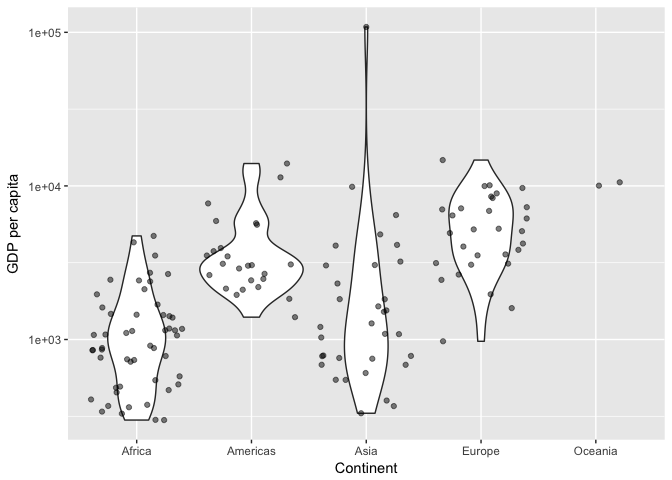
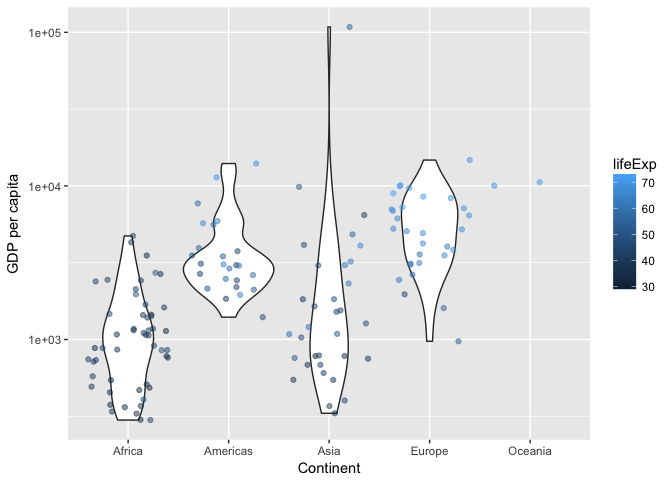
add final changes

diff --git a/hw02-gapminder_exploration.md b/hw02-gapminder_exploration.md
@@ -1,7 +1,7 @@
 hw02-gapminder exploration
 ================
 Frederike Basedow
-22 September 2018
+25 September 2018
 
 ### Load the data and packages
 
@@ -44,13 +44,7 @@ str(gapminder)
     ##  $ pop      : int  8425333 9240934 10267083 11537966 13079460 14880372 12881816 13867957 16317921 22227415 ...
     ##  $ gdpPercap: num  779 821 853 836 740 ...
 
-``` r
-typeof(gapminder)
-```
-
-    ## [1] "list"
-
-Gapminder is a list that contains 3 different classes: table-data frame, table and data frame.
+Gapminder is a tibble, which is a special type of data frame.
 
 **2. What is its class?**
 
@@ -60,10 +54,12 @@ class(gapminder)
 
     ## [1] "tbl_df"     "tbl"        "data.frame"
 
+The classes included in gapminder are `tbl_df`, `tbl`, and `data.frame`.
+
 **3. How many variables/columns?**
 
 ``` r
-n_var <- ncol(gapminder)
+n_var <- ncol(gapminder) #store number of columns in new variable n_var
 n_var
 ```
 
@@ -74,7 +70,7 @@ Gapminder has 6 variables.
 **4. How many rows/observations?**
 
 ``` r
-n_obs <- nrow(gapminder)
+n_obs <- nrow(gapminder) # store number of rows in new variable n_obs
 n_obs
 ```
 
@@ -92,13 +88,15 @@ dim(gapminder)
 
     ## [1] 1704    6
 
-Furthermore, the output of the `str()` function also includes the dimensions of the object in its first line. `str()` is useful if you just want to get an overview of what the dimension are but not do anything with them. `dim()`, `nrow()` and `ncol()` are useful if you want to use the output numbers for future calculations. For example, you might want to use the total number of observations to calculate the mean. Here is an example for calculating the mean gdpPercap, making use of `n_obs` as specified above:
+Furthermore, the output of the `str()` function or just typing in the object's name also includes the dimensions of the object in its first line. `str()` is useful if you just want to get an overview of what the dimension are but not do anything with them. `dim()`, `nrow()` and `ncol()` are useful if you want to use the output numbers for future calculations. For example, you might want to use the total number of observations to calculate the mean. Here is an example for calculating the mean gdpPercap, making use of `n_obs` as specified above:
 
 ``` r
 sum(gapminder$gdpPercap)/n_obs
 ```
 
     ## [1] 7215.327
+
+`dim()` is a faster function than `ncol()` and `nrow()`, because the latter two functions actually use the `dim()` function. So it may be better to use dim() in loops that involve a lot of computing.
 
 **6. What data type is each variable?**
 
@@ -115,11 +113,9 @@ The first row shows the variable and the second row the respective type of each 
 
 *Pick at least one categorical variable and at least one quantitative variable to explore.*
 
-I will explore `country` and `year` as categorical variables and `lifeExp` and \`gdpPercap as quanititative variables.
+I will explore `country` and `year` as categorical variables and `lifeExp` and `gdpPercap` as quantitative variables.
 
 **1. What are possible values (or range, whichever is appropriate) of each variable?**
-
-I will safe the output of each of these calculations in case I will need them later.
 
 ``` r
 # get the lowest and highest value of lifeExp
@@ -226,27 +222,29 @@ all_ys
 
 ``` r
 # get the lowest and highest value of gdpPercap
-r_gdp <- range(gapminder$gdpPercap) 
+r_gdp <- round(range(gapminder$gdpPercap),2) 
 r_gdp
 ```
 
-    ## [1]    241.1659 113523.1329
+    ## [1]    241.17 113523.13
+
+The `lifeExp` variable ranges from 23.599 to 82.603, there are 142 countries included in the data set and the `gdpPercap` variable ranges from 241.17 to 1.135231310^{5}.
 
 **2. What values are typical? What’s the spread? What’s the distribution? Etc., tailored to the variable at hand.**
 
-For this task, I will focus on one quantitative and one categorical variable only. First, I will provide some statistics of the lifeExp variable and it's distribution, then I will show how many countries were recorded per continent.
+For this task, I will focus on one quantitative (`lifeExp`) and one categorical variable (`continent`) only. First, I will provide some statistics of the life expectancy and it's distribution, then I will show how many countries were recorded per continent.
 
 Let's start with the life expectancy:
 
 ``` r
 # get statistics of lifeExp variable, change them into a data frame for presenting in nice table with kable()
 summary(gapminder$lifeExp) %>% 
-  round(2) %>% 
-  as.matrix() %>% 
-  as.data.frame() %>% 
-  rownames_to_column() %>% 
-  rename(Stat=rowname, Value=V1) %>% 
-  kable()
+  round(2) %>% # round the calculate values to two decimals
+  as.matrix() %>% # change to matrix
+  as.data.frame() %>% # change into data frame
+  rownames_to_column() %>% # make the rownames (including stats description) into a column
+  rename(Stat=rowname, Value=V1) %>% # change column names
+  kable() #print in nice table
 ```
 
 | Stat    |  Value|
@@ -261,9 +259,9 @@ summary(gapminder$lifeExp) %>%
 ``` r
 # make density plot for lifeExp variable
 gapminder %>% 
-  ggplot(aes(lifeExp)) + 
-  geom_density() +
-  labs(x="Life Expectancy", y="Density")
+  ggplot(aes(lifeExp)) + # lifeExp on x axis
+  geom_density() + # density plot
+  labs(x="Life Expectancy", y="Density") # change axis labels
 ```
 
 ![](hw02-gapminder_exploration_files/figure-markdown_github/unnamed-chunk-10-1.png)
@@ -292,8 +290,8 @@ The number of countries recorded in the year 1952 is the same as the number of d
 
 ``` r
 # make bar graph of number of countries per continent with filtered data for year 1952
-gm_fy %>% 
-  ggplot(aes(continent)) +
+gm_fy %>% # gapminder data for year 1952 only
+  ggplot(aes(continent)) + 
   geom_bar() +
   labs(x="Continent", y="Number of Countries")
 ```
@@ -303,11 +301,11 @@ gm_fy %>%
 To get a better idea of how life expectancy differs between different countries per continent and how it changed throughout the years, here is a plot that gives an overview of the life expectancy over the years per country, coloured by continent:
 
 ``` r
-# make plot that shows lifeExp over the years per country with colour coding per continent
+# make plot that shows lifeExp over the years per country with colour coding by continent
 gapminder %>% 
   ggplot(aes(year,lifeExp)) +
-  geom_line(aes(group=country, colour=continent)) +
-  labs(x="Year", y="Life Expectancy") #change axis labels
+  geom_line(aes(group=country, colour=continent)) + 
+  labs(x="Year", y="Life Expectancy") 
 ```
 
 ![](hw02-gapminder_exploration_files/figure-markdown_github/unnamed-chunk-13-1.png)
@@ -321,11 +319,12 @@ gapminder %>%
 I will use the two quantitative variables `lifeExp` and `gdpPercap`.
 
 ``` r
-# make a scatterplot of gdpPercap vs. lifeExp
+# make a scatterplot of gdpPercap vs. lifeExp for each continent
 gapminder %>% 
   ggplot(aes(gdpPercap, lifeExp)) + 
-  scale_x_log10() +
-  geom_jitter(alpha=0.25) +
+  scale_x_log10() + #using log scale for gdpPercap
+  geom_jitter(alpha=0.25) + # add some alpha transparency to jitter
+  facet_wrap( ~continent) + # facetting by continent
   geom_smooth(method=lm) + # fit a linear regression line
   labs(x="GDP per capita", y=" Life Expectancy")
 ```
@@ -334,7 +333,7 @@ gapminder %>%
 
 **2. A plot of one quantitative variable. Maybe a histogram or densityplot or frequency polygon.**
 
-I will use the variable `pop` for this task
+I will use the variable `pop` for this task.
 
 ``` r
 # histogram for population, using a log scale.
@@ -349,11 +348,11 @@ gapminder %>%
 
 **3. A plot of one quantitative variable and one categorical. Maybe boxplots for several continents or countries.**
 
-I will plot the GDP per capita for each continent in the year 1952 in a violin plot.
+I will plot the GDP per capita for each continent in the year 1952 with a violin plot, including jitter. I will also include the life expectancy data on a colour scale that will be visible in the jitter plot.
 
 ``` r
 gm_fy %>%  # use data previously filtered for year 1952
-  ggplot(aes(continent, gdpPercap)) +
+  ggplot(aes(continent, gdpPercap, colour=lifeExp)) +
   scale_y_log10() +
   geom_violin() +
   geom_jitter(alpha=0.5) +
@@ -361,8 +360,6 @@ gm_fy %>%  # use data previously filtered for year 1952
 ```
 
 ![](hw02-gapminder_exploration_files/figure-markdown_github/unnamed-chunk-16-1.png)
-
-*You don’t have to use all the data in every plot! It’s fine to filter down to one country or small handful of countries.*
 
 To give another example of using filtered data, here is a boxplot of the life expectancy in each country in Asia.
 
@@ -381,7 +378,7 @@ gapminder %>%
 
 **1. Use filter() to create data subsets that you want to plot. Practice piping together filter() and select(). Possibly even piping into ggplot().**
 
-I don't understand the use of `select()` when you're plotting data, aren't you selecting data in your plot settings anyways? But here's a plot that shows life expectancy per continent in the year 2007.
+Here is a violin plot, including jitter, of the life expectancy in each continent in the year 2007.
 
 ``` r
 gapminder %>% 
@@ -389,7 +386,7 @@ gapminder %>%
   select(continent, country, lifeExp) %>% 
   ggplot(aes(continent, lifeExp)) +
   geom_violin() +
-  geom_jitter() +
+  geom_jitter(alpha=0.5) +
   labs(x="Continent", y="Life Expectancy")
 ```
 
@@ -397,7 +394,7 @@ gapminder %>%
 
 ### But I want to do more!
 
-Evaluate this code and describe the result. Presumably the analyst’s intent was to get the data for Rwanda and Afghanistan. Did they succeed? Why or why not? If not, what is the correct way to do this?
+*Evaluate this code and describe the result. Presumably the analyst’s intent was to get the data for Rwanda and Afghanistan. Did they succeed? Why or why not? If not, what is the correct way to do this?*
 
 ``` r
 filter(gapminder, country == c("Rwanda", "Afghanistan"))
@@ -429,7 +426,7 @@ filter(gapminder, country == c("Rwanda", "Afghanistan")) %>%
 
 ![](hw02-gapminder_exploration_files/figure-markdown_github/unnamed-chunk-20-1.png)
 
-You can see that only one data point exists per year, of one country each.
+You can see that only one data point exists per year, of one country each. If I understand it correctly, this is because by using `==` to campare strings in character vectors, the data will be sorted in a specific way (that I don't fully understand).
 
 The correct way is:
 
@@ -475,7 +472,7 @@ gapminder %>%
     ## 10 Afghanistan Asia       1997    41.8 22227415      635.
     ## # ... with 14 more rows
 
-And here is a plot that shows that two data points exist per year, one per country.
+And here is a plot that shows that with the correct method two data points exist per year, one per country.
 
 ``` r
 gapminder %>% 
